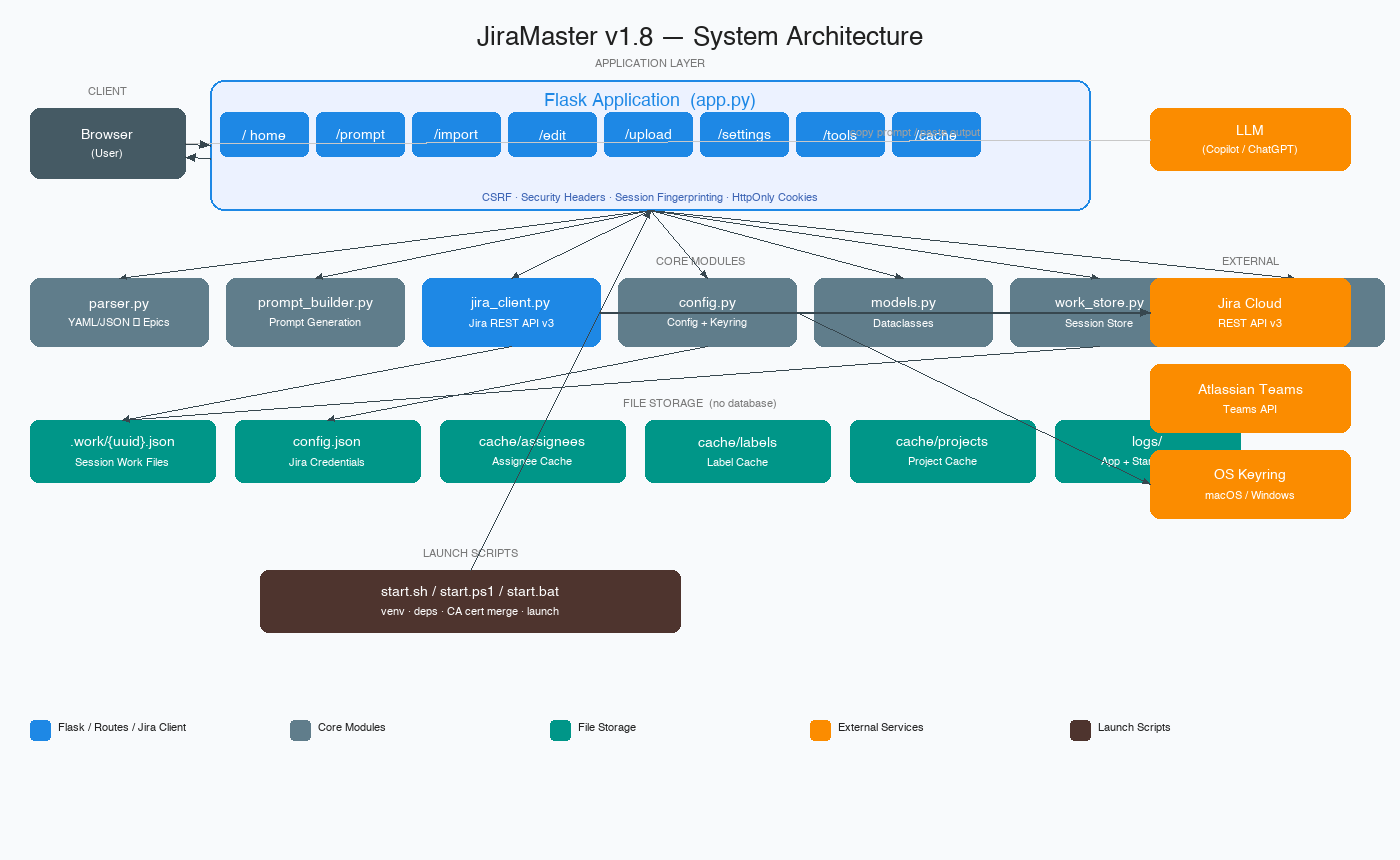
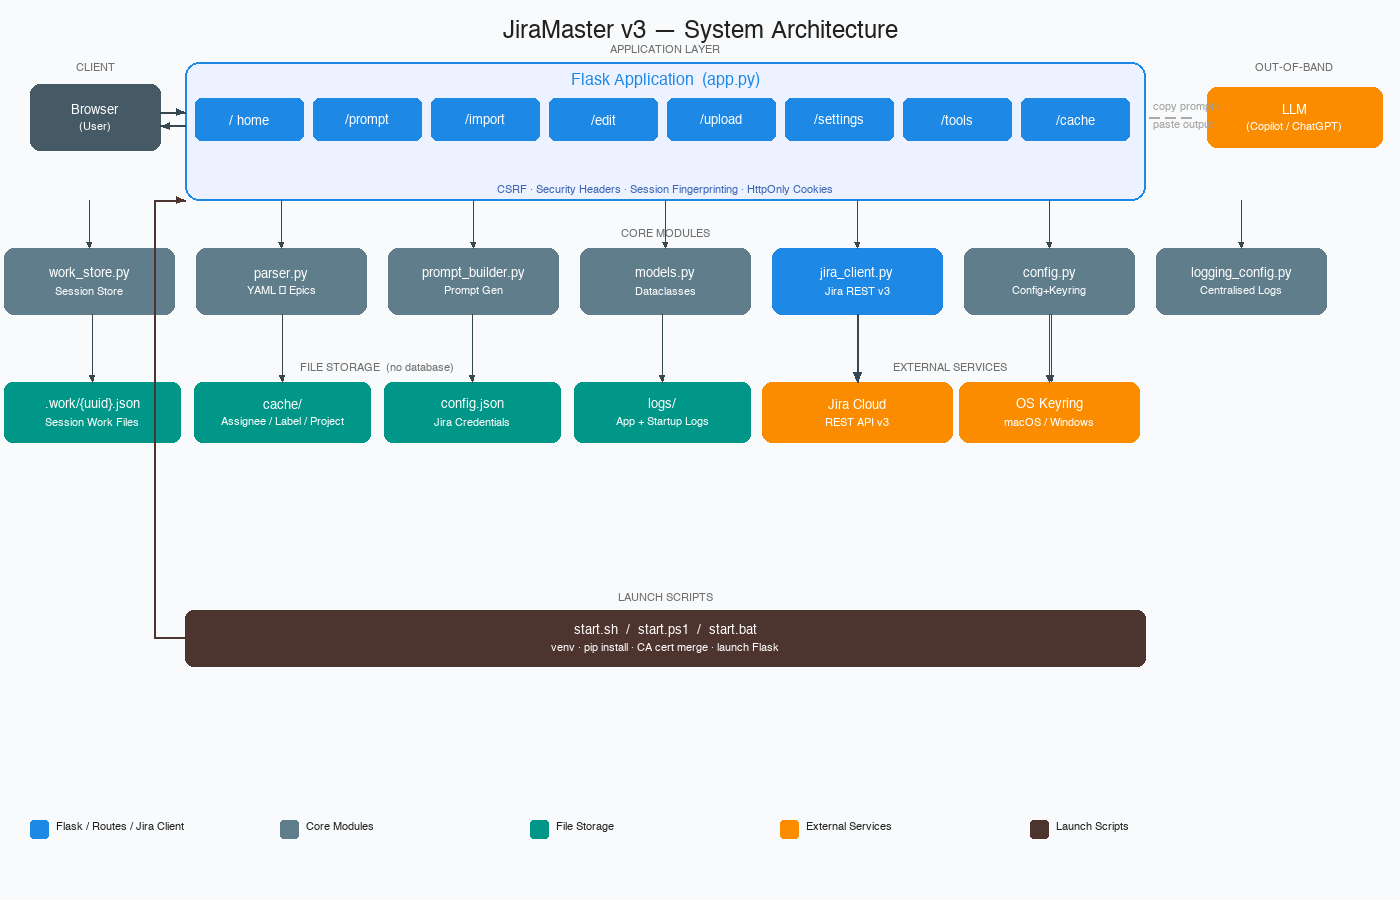
docs: redesign architecture diagram with layered swim-lane layout
Eliminates all crossing lines by restructuring to a strict top-down
layered layout: Client → Flask → Core Modules → File Storage / External
Services. Each module's arrow goes straight down to its target.
Launch Scripts routed via left-margin L-shape to avoid overlap.

diff --git a/docs/generate_diagrams.py b/docs/generate_diagrams.py
@@ -74,168 +74,274 @@ def centered_text(draw, cx, cy, text, font, color=TEXT_W):
 
 # ══════════════════════════════════════════════════════════════════════════════
 # DIAGRAM 1 — System Architecture
+# Layered swim-lane layout — arrows only travel straight down within each
+# column so lines never cross.
+#
+# Layout (left → right columns, top → bottom rows):
+#
+#  Col 0 (Browser)   Col 1-8 (Flask + routes)          Col 9 (LLM — out-of-band)
+#  ─────────────────────────────────────────────────────────────────────────────
+#  [Browser]         [Flask App container]               [LLM / Copilot]
+#       ↕ HTTP            ↓ (each route to module below)      ↑ copy/paste
+#                    [Core Modules row]
+#                    work_store  parser  prompt  models  jira_client  config  logging
+#                         ↓        ↓                         ↓           ↓
+#                    [.work/]  [cache/]                [Jira Cloud] [OS Keyring]
+#                    [logs/]
+#                    [config.json]
+#
+#  Bottom: [Launch Scripts] spanning full width, upward arrow to Flask
 # ══════════════════════════════════════════════════════════════════════════════
 def diagram_architecture():
-    W, H = 1400, 860
+    W, H = 1400, 900
     img = Image.new("RGB", (W, H), BG)
     draw = ImageDraw.Draw(img)
 
-    f_title = load_font(26)
-    f_head  = load_font(18)
-    f_body  = load_font(14)
+    f_title = load_font(24)
+    f_head  = load_font(16)
+    f_body  = load_font(13)
     f_sm    = load_font(12)
     f_xs    = load_font(11)
 
-    # ── Title ─────────────────────────────────────────────────────────────────
-    centered_text(draw, W // 2, 36, "JiraMaster v1.8 — System Architecture", f_title, TEXT_D)
+    # ── Helpers ───────────────────────────────────────────────────────────────
+    def section_label(cx, y, label):
+        w, _ = text_size(draw, label, f_xs)
+        draw.text((cx - w // 2, y), label, font=f_xs, fill=(110, 110, 110))
 
-    # ── Section label helper ──────────────────────────────────────────────────
-    def section_label(x, y, label):
-        w, h = text_size(draw, label, f_xs)
-        draw.text((x - w // 2, y), label, font=f_xs, fill=(120, 120, 120))
-
-    # ── Box helper ────────────────────────────────────────────────────────────
-    def box(x, y, w, h, title, subtitle=None, color=BOX_BLUE, text_color=TEXT_W, radius=10):
-        draw_rounded_rect(draw, [x, y, x + w, y + h], radius=radius, fill=color, outline=None)
+    def box(x, y, w, h, title, subtitle=None, color=BOX_BLUE,
+            text_color=TEXT_W, radius=10):
+        draw_rounded_rect(draw, [x, y, x + w, y + h],
+                          radius=radius, fill=color, outline=None)
         if subtitle:
-            centered_text(draw, x + w // 2, y + h // 2 - 10, title, f_body, text_color)
-            centered_text(draw, x + w // 2, y + h // 2 + 10, subtitle, f_xs, text_color)
+            centered_text(draw, x + w // 2, y + h // 2 - 9, title,  f_body, text_color)
+            centered_text(draw, x + w // 2, y + h // 2 + 9, subtitle, f_xs, text_color)
         else:
             centered_text(draw, x + w // 2, y + h // 2, title, f_body, text_color)
 
-    # ── Browser (User) ────────────────────────────────────────────────────────
-    bx, by, bw, bh = 30, 108, 155, 70
-    box(bx, by, bw, bh, "Browser", "(User)", color=(69, 90, 100))
-    section_label(bx + bw // 2, by - 22, "CLIENT")
+    def v_arrow(cx, y0, y1, color=ARROW, width=2, head=8):
+        """Straight vertical arrow from (cx, y0) down to (cx, y1)."""
+        draw_arrow(draw, (cx, y0), (cx, y1), color=color, width=width, head=head)
 
-    # ── Flask App container ───────────────────────────────────────────────────
-    fx, fy, fw, fh = 210, 80, 880, 130
-    draw_rounded_rect(draw, [fx, fy, fx + fw, fy + fh], radius=14,
+    # ─────────────────────────────────────────────────────────────────────────
+    # ROW 0  — Title
+    # ─────────────────────────────────────────────────────────────────────────
+    centered_text(draw, W // 2, 30, "JiraMaster v3 — System Architecture", f_title, TEXT_D)
+
+    # ─────────────────────────────────────────────────────────────────────────
+    # ROW 1  — CLIENT (left) + Flask Application (centre) + LLM (right)
+    #          y = 60 … 200
+    # ─────────────────────────────────────────────────────────────────────────
+    ROW1_Y = 62
+
+    # Browser
+    BW, BH = 130, 66
+    BX = 30
+    BY = ROW1_Y + 22
+    box(BX, BY, BW, BH, "Browser", "(User)", color=(69, 90, 100))
+    section_label(BX + BW // 2, ROW1_Y, "CLIENT")
+
+    # Flask container
+    FX, FY, FW, FH = 185, ROW1_Y, 960, 138
+    draw_rounded_rect(draw, [FX, FY, FX + FW, FY + FH], radius=14,
                       fill=(236, 242, 255), outline=(30, 136, 229), width=2)
-    centered_text(draw, fx + fw // 2, fy + 20, "Flask Application  (app.py)", f_head, BOX_BLUE)
-    section_label(fx + fw // 2, fy - 22, "APPLICATION LAYER")
+    centered_text(draw, FX + FW // 2, FY + 18, "Flask Application  (app.py)", f_head, BOX_BLUE)
+    section_label(FX + FW // 2, FY - 18, "APPLICATION LAYER")
 
-    # Route boxes inside Flask — 8 routes, 88px wide each
-    routes = [
-        ("/ home",    220, 112),
-        ("/prompt",   316, 112),
-        ("/import",   412, 112),
-        ("/edit",     508, 112),
-        ("/upload",   604, 112),
-        ("/settings", 700, 112),
-        ("/tools",    796, 112),
-        ("/cache",    892, 112),
-    ]
-    for label, rx, ry in routes:
-        box(rx, ry, 88, 44, label, color=BOX_BLUE, radius=7)
+    # 8 route chips inside Flask  — fit evenly
+    route_labels = ["/ home", "/prompt", "/import", "/edit",
+                    "/upload", "/settings", "/tools", "/cache"]
+    RW, RH = 108, 42
+    r_gap = (FW - len(route_labels) * RW) // (len(route_labels) + 1)
+    route_xs = [FX + r_gap + i * (RW + r_gap) for i in range(len(route_labels))]
+    route_y = FY + 36
+    for label, rx in zip(route_labels, route_xs):
+        box(rx, route_y, RW, RH, label, color=BOX_BLUE, radius=6)
 
-    # Security annotation below routes
+    # Security footer inside Flask
     sec_text = "CSRF · Security Headers · Session Fingerprinting · HttpOnly Cookies"
     sw, _ = text_size(draw, sec_text, f_xs)
-    draw.text((fx + fw // 2 - sw // 2, fy + fh - 18), sec_text, font=f_xs, fill=(60, 100, 180))
+    draw.text((FX + FW // 2 - sw // 2, FY + FH - 16),
+              sec_text, font=f_xs, fill=(60, 100, 180))
 
-    # ── Core Modules ──────────────────────────────────────────────────────────
-    modules_y = 278
+    # Browser ↔ Flask  (horizontal bidirectional)
+    mid_y = BY + BH // 2
+    draw_arrow(draw, (BX + BW, mid_y - 5),  (FX, mid_y - 5),  width=2, head=9)
+    draw_arrow(draw, (FX, mid_y + 9), (BX + BW, mid_y + 9), width=2, head=9)
+
+    # LLM  (out-of-band, top-right)
+    LLM_W, LLM_H = 175, 60
+    LLM_X = W - LLM_W - 18
+    LLM_Y = BY + (BH - LLM_H) // 2
+    box(LLM_X, LLM_Y, LLM_W, LLM_H, "LLM", "(Copilot / ChatGPT)", color=BOX_ORG)
+    section_label(LLM_X + LLM_W // 2, ROW1_Y, "OUT-OF-BAND")
+    # Dashed horizontal line: Flask right edge → LLM left edge
+    fx_right = FX + FW
+    llm_mid_y = LLM_Y + LLM_H // 2
+    dash_len, gap_len = 10, 6
+    cx = fx_right + 4
+    while cx + dash_len < LLM_X - 4:
+        draw.line([(cx, llm_mid_y), (cx + dash_len, llm_mid_y)],
+                  fill=(170, 170, 170), width=2)
+        cx += dash_len + gap_len
+    note_x = fx_right + 8
+    draw.text((note_x, llm_mid_y - 16), "copy prompt /", font=f_xs, fill=(160, 160, 160))
+    draw.text((note_x, llm_mid_y + 2),  "paste output",  font=f_xs, fill=(160, 160, 160))
+
+    # ─────────────────────────────────────────────────────────────────────────
+    # ROW 2  — Core Modules
+    #          7 modules arranged so each sits in a named column.
+    #          Columns are spaced to align with their downstream targets.
+    #
+    #  col index:  0          1         2         3          4            5         6
+    #  module:   work_store  parser  prompt   models   jira_client   config   logging
+    #  connects:  .work/     cache/   (none)   (none)   Jira Cloud  OS Keyring  logs/
+    # ─────────────────────────────────────────────────────────────────────────
+    ROW2_Y = 248
+    MW, MH = 170, 66
+    M_GAP = 22
+    N_MOD = 7
+    # centre the module row inside the Flask column range
+    total_mod_w = N_MOD * MW + (N_MOD - 1) * M_GAP
+    MX_START = FX + (FW - total_mod_w) // 2
+
     modules = [
-        ("parser.py",         "YAML/JSON → Epics",  BOX_GRAY),
-        ("prompt_builder.py", "Prompt Generation",  BOX_GRAY),
-        ("jira_client.py",    "Jira REST API v3",   BOX_BLUE),
-        ("config.py",         "Config + Keyring",   BOX_GRAY),
-        ("models.py",         "Dataclasses",        BOX_GRAY),
-        ("work_store.py",     "Session Store",      BOX_GRAY),
-        ("logging_config.py", "Centralised Logs",   BOX_GRAY),
+        ("work_store.py",    "Session Store",   BOX_GRAY),  # → .work/  logs/
+        ("parser.py",        "YAML → Epics",    BOX_GRAY),  # → cache/assignees
+        ("prompt_builder.py","Prompt Gen",      BOX_GRAY),  # (no storage)
+        ("models.py",        "Dataclasses",     BOX_GRAY),  # (no storage)
+        ("jira_client.py",   "Jira REST v3",    BOX_BLUE),  # → Jira Cloud
+        ("config.py",        "Config+Keyring",  BOX_GRAY),  # → config.json / OS Keyring
+        ("logging_config.py","Centralised Logs",BOX_GRAY),  # (log files via work_store)
     ]
-    mw, mh = 178, 68
-    gap = 18
-    mx_start = 30
+    mod_centers = []
     for i, (name, desc, color) in enumerate(modules):
-        mx = mx_start + i * (mw + gap)
-        box(mx, modules_y, mw, mh, name, desc, color=color)
-    section_label(W // 2, modules_y - 22, "CORE MODULES")
+        mx = MX_START + i * (MW + M_GAP)
+        box(mx, ROW2_Y, MW, MH, name, desc, color=color)
+        mod_centers.append(mx + MW // 2)
 
-    # Connectors: Flask → modules
-    for i in range(len(modules)):
-        mx = mx_start + i * (mw + gap) + mw // 2
-        draw_arrow(draw, (fx + fw // 2, fy + fh), (mx, modules_y), width=1, head=7)
+    section_label(FX + FW // 2, ROW2_Y - 20, "CORE MODULES")
 
-    # ── File Storage ──────────────────────────────────────────────────────────
-    store_y = 420
+    # Flask → each module  (straight vertical — each route chip roughly above
+    # the module strip; use the module centre x, from Flask bottom)
+    flask_bottom = FY + FH
+    for cx in mod_centers:
+        v_arrow(cx, flask_bottom, ROW2_Y, width=1, head=6)
+
+    # ─────────────────────────────────────────────────────────────────────────
+    # ROW 3  — Split into two groups separated by a gap
+    #
+    #  LEFT  (under modules 0-3):  File Storage  (4 boxes)
+    #  RIGHT (under modules 4-5):  External Services  (3 boxes, stacked)
+    # ─────────────────────────────────────────────────────────────────────────
+    ROW3_Y = 382
+
+    # ── File Storage (left group, under work_store / parser / prompt / models)
+    LEFT_COL_END = MX_START + 3 * (MW + M_GAP) + MW  # right edge of models.py
+
     stores = [
         (".work/{uuid}.json", "Session Work Files"),
+        ("cache/",            "Assignee / Label / Project"),
         ("config.json",       "Jira Credentials"),
-        ("cache/assignees",   "Assignee Cache"),
-        ("cache/labels",      "Label Cache"),
-        ("cache/projects",    "Project Cache"),
         ("logs/",             "App + Startup Logs"),
     ]
-    sw2, sh = 185, 62
-    sg = 20
-    sx_start = 30
-    for i, (name, desc) in enumerate(stores):
-        sx = sx_start + i * (sw2 + sg)
-        box(sx, store_y, sw2, sh, name, desc, color=BOX_TEAL, radius=8)
-    section_label(W // 2, store_y - 22, "FILE STORAGE  (no database)")
+    n_stores = len(stores)
+    LEFT_STORE_W = LEFT_COL_END - MX_START
+    SW = (LEFT_STORE_W - (n_stores - 1) * 14) // n_stores
+    SH = 60
+    s_gap = 14
+    store_xs = [MX_START + i * (SW + s_gap) for i in range(n_stores)]
+    store_centers = [sx + SW // 2 for sx in store_xs]
 
-    # Connectors: core modules → storage
-    draw_arrow(draw, (mx_start + 2 * (mw + gap) + mw // 2, modules_y + mh),
-               (sx_start + sw2 // 2, store_y), width=1, head=7)
-    draw_arrow(draw, (mx_start + 3 * (mw + gap) + mw // 2, modules_y + mh),
-               (sx_start + sw2 + sg + sw2 // 2, store_y), width=1, head=7)
-    draw_arrow(draw, (mx_start + 5 * (mw + gap) + mw // 2, modules_y + mh),
-               (sx_start + sw2 // 2, store_y), width=1, head=7)
+    for sx, (name, desc) in zip(store_xs, stores):
+        box(sx, ROW3_Y, SW, SH, name, desc, color=BOX_TEAL, radius=8)
+    section_label(MX_START + LEFT_STORE_W // 2, ROW3_Y - 20,
+                  "FILE STORAGE  (no database)")
 
-    # ── External Services ─────────────────────────────────────────────────────
-    ext_y = 278
-    externals = [
-        ("Jira Cloud",       "REST API v3"),
-        ("Atlassian Teams",  "Teams API"),
-        ("OS Keyring",       "macOS / Windows"),
-    ]
-    ex, ey_start = 1150, ext_y
-    ew, eh = 200, 68
-    eg = 18
-    for i, (name, desc) in enumerate(externals):
-        ey = ey_start + i * (eh + eg)
-        box(ex, ey, ew, eh, name, desc, color=BOX_ORG)
-    section_label(ex + ew // 2, ext_y - 22, "EXTERNAL")
+    # Module → storage arrows (straight vertical)
+    # work_store.py → .work/
+    v_arrow(store_centers[0], ROW2_Y + MH, ROW3_Y, width=1, head=7)
+    # parser.py → cache/
+    v_arrow(store_centers[1], ROW2_Y + MH, ROW3_Y, width=1, head=7)
+    # config.py → config.json
+    v_arrow(store_centers[2], ROW2_Y + MH, ROW3_Y, width=1, head=7)
+    # logging_config.py → logs/
+    v_arrow(store_centers[3], ROW2_Y + MH, ROW3_Y, width=1, head=7)
 
-    # Connector: jira_client → Jira Cloud
-    jira_mx = mx_start + 2 * (mw + gap) + mw
-    draw_arrow(draw, (jira_mx, modules_y + mh // 2), (ex, ext_y + eh // 2), width=2, head=10)
-    # Connector: config.py → OS Keyring
-    cfg_mx = mx_start + 3 * (mw + gap) + mw
-    draw_arrow(draw, (cfg_mx, modules_y + mh // 2), (ex, ext_y + 2 * (eh + eg) + eh // 2), width=1, head=7)
+    # ── External Services — each in its own column under the module that uses it
+    # jira_client.py (mod 4) → Jira Cloud + Atlassian Teams (side by side)
+    # config.py      (mod 5) → OS Keyring
+    EH, E_GAP = 60, 14
 
-    # ── LLM (manual out-of-band) ──────────────────────────────────────────────
-    lx, ly, lw, lh = 1150, 108, 200, 62
-    box(lx, ly, lw, lh, "LLM", "(Copilot / ChatGPT)", color=BOX_ORG)
-    draw.line([(bx + bw, by + bh // 2), (lx, ly + lh // 2)], fill=(200, 200, 200), width=2)
-    draw.text((850, by + bh // 2 - 16), "copy prompt / paste output", font=f_xs, fill=(160, 160, 160))
+    # Jira Cloud — centred under jira_client.py
+    jc_cx = mod_centers[4]
+    EW_JC = MW + 20
+    jc_x  = jc_cx - EW_JC // 2
+    box(jc_x, ROW3_Y, EW_JC, EH, "Jira Cloud", "REST API v3", color=BOX_ORG)
+    v_arrow(jc_cx, ROW2_Y + MH, ROW3_Y, width=2, head=10)
 
-    # Browser ↔ Flask
-    draw_arrow(draw, (bx + bw, by + bh // 2), (fx, fy + fh // 2), width=2, head=10)
-    draw_arrow(draw, (fx, fy + fh // 2 + 14), (bx + bw, by + bh // 2 + 14), width=2, head=10)
+    # Atlassian Teams — to the right of Jira Cloud, connected by a thin arrow
+    # from jira_client as well (offset slightly right)
+    at_x = jc_x + EW_JC + E_GAP
+    EW_AT = MW
+    box(at_x, ROW3_Y, EW_AT, EH, "Atlassian Teams", "Teams API", color=BOX_ORG)
+    at_cx = at_x + EW_AT // 2
+    v_arrow(at_cx, ROW2_Y + MH, ROW3_Y, width=1, head=7)
 
-    # ── Launch Scripts ────────────────────────────────────────────────────────
-    lsx, lsy, lsw, lsh = 260, 570, 420, 62
-    box(lsx, lsy, lsw, lsh, "start.sh / start.ps1 / start.bat",
-        "venv · deps · CA cert merge · launch", color=(78, 52, 46), radius=8)
-    section_label(lsx + lsw // 2, lsy - 22, "LAUNCH SCRIPTS")
-    draw_arrow(draw, (lsx + lsw // 2, lsy), (fx + fw // 2, fy + fh), width=1, head=8)
+    # OS Keyring — centred under config.py
+    cfg_cx = mod_centers[5]
+    EW_KR = MW + 10
+    kr_x  = cfg_cx - EW_KR // 2
+    box(kr_x, ROW3_Y, EW_KR, EH, "OS Keyring", "macOS / Windows", color=BOX_ORG)
+    v_arrow(cfg_cx, ROW2_Y + MH, ROW3_Y, width=1, head=7)
 
-    # ── Legend ────────────────────────────────────────────────────────────────
+    # Section label centred over all three external boxes
+    ext_left  = jc_x
+    ext_right = kr_x + EW_KR
+    section_label((ext_left + ext_right) // 2, ROW3_Y - 20, "EXTERNAL SERVICES")
+
+    # ─────────────────────────────────────────────────────────────────────────
+    # ROW 4  — Launch Scripts (bottom banner, outside the data-flow)
+    #  Arrow routed up the LEFT edge of the Flask column to avoid crossing
+    #  the module and storage rows.
+    # ─────────────────────────────────────────────────────────────────────────
+    ROW4_Y = 610
+    LSW = FW
+    LSH = 56
+    LSX = FX
+    box(LSX, ROW4_Y, LSW, LSH,
+        "start.sh  /  start.ps1  /  start.bat",
+        "venv · pip install · CA cert merge · launch Flask",
+        color=(78, 52, 46), radius=8)
+    section_label(LSX + LSW // 2, ROW4_Y - 18, "LAUNCH SCRIPTS")
+    # Route the launch arrow up the left margin — clear of all module/storage boxes.
+    # Three segments: horizontal left → vertical up → horizontal right into Flask.
+    LS_COLOR  = (78, 52, 46)
+    MARGIN_X  = LSX - 30   # left of everything
+    ls_top_y  = ROW4_Y     # top of scripts banner
+    ls_mid_y  = ls_top_y + LSH // 2
+    # 1. Horizontal: scripts left edge → margin
+    draw.line([(LSX, ls_mid_y), (MARGIN_X, ls_mid_y)], fill=LS_COLOR, width=2)
+    # 2. Vertical: margin bottom → margin at Flask bottom
+    draw.line([(MARGIN_X, ls_mid_y), (MARGIN_X, flask_bottom)], fill=LS_COLOR, width=2)
+    # 3. Horizontal + arrowhead: margin → Flask left edge
+    draw_arrow(draw, (MARGIN_X, flask_bottom), (FX, flask_bottom),
+               color=LS_COLOR, width=2, head=9)
+
+    # ─────────────────────────────────────────────────────────────────────────
+    # Legend
+    # ─────────────────────────────────────────────────────────────────────────
     legend_items = [
-        (BOX_BLUE,    "Flask / Routes / Jira Client"),
-        (BOX_GRAY,    "Core Modules"),
-        (BOX_TEAL,    "File Storage"),
-        (BOX_ORG,     "External Services"),
-        ((78, 52, 46),"Launch Scripts"),
+        (BOX_BLUE,      "Flask / Routes / Jira Client"),
+        (BOX_GRAY,      "Core Modules"),
+        (BOX_TEAL,      "File Storage"),
+        (BOX_ORG,       "External Services"),
+        ((78, 52, 46),  "Launch Scripts"),
     ]
-    lx0, ly0 = 30, 720
+    LG_X, LG_Y = 30, 820
     for i, (color, label) in enumerate(legend_items):
-        cx = lx0 + i * 260
-        draw_rounded_rect(draw, [cx, ly0, cx + 20, ly0 + 20], radius=4, fill=color)
-        draw.text((cx + 28, ly0 + 2), label, font=f_xs, fill=TEXT_D)
+        lx = LG_X + i * 250
+        draw_rounded_rect(draw, [lx, LG_Y, lx + 18, LG_Y + 18], radius=3, fill=color)
+        draw.text((lx + 26, LG_Y + 1), label, font=f_xs, fill=TEXT_D)
 
     img.save(os.path.join(OUT, "architecture.png"), "PNG", dpi=(144, 144))
     print("✓ architecture.png")
